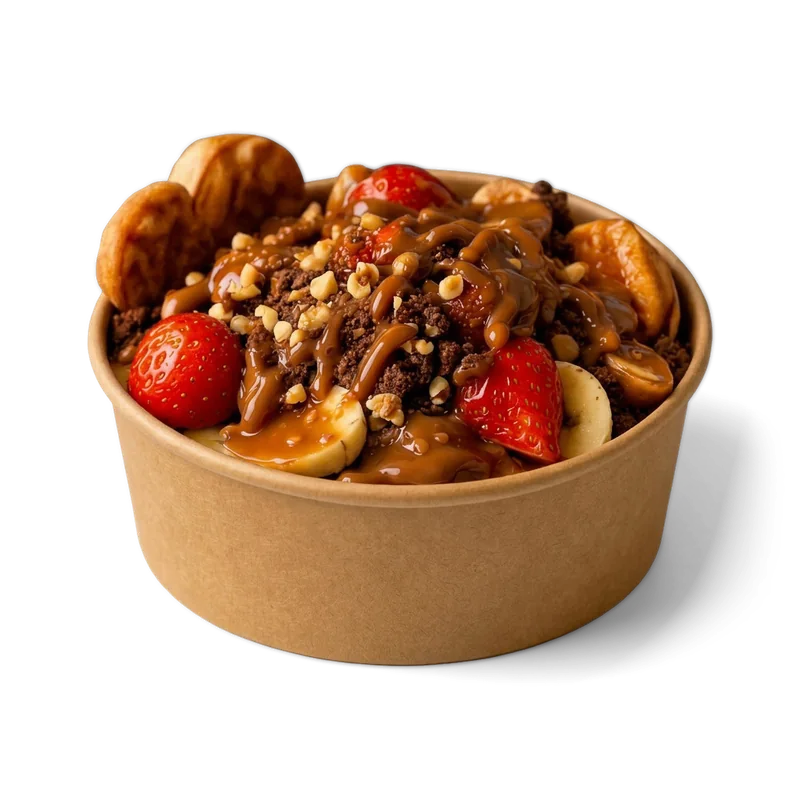
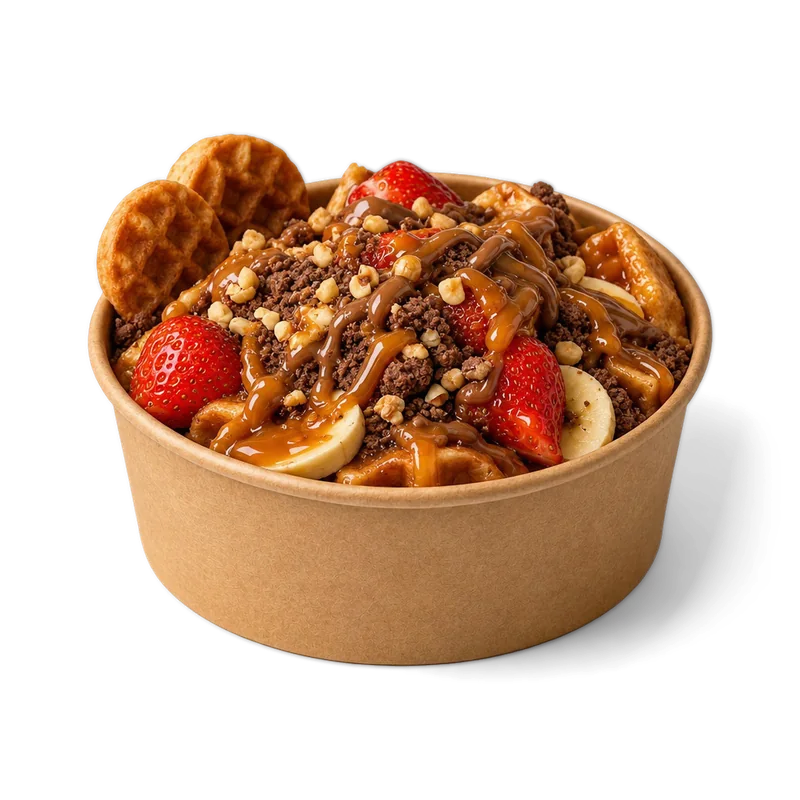
Görselleri GPT Image ile yenile, Bardak'ı tek çeşide indir
- 15 ürün görseli Magnefic üzerinden GPT Image (GPT 2.6, yüksek kalite)
  ile aynı stüdyo kadrajında yeniden üretildi; arka planlar şeffaf,
  doğal gölgeler korundu
- Bardak Waffle tek çeşit: 6 kartlık ızgara yerine tek geniş kart
  (telefonda alt alta, geniş ekranda görsel ve metin yan yana)
- Giriş görseli (Kova, Tabak, Bardak) yeni görsellerle yeniden oluşturuldu

Claude-Session: https://claude.ai/code/session_01EJb2HvBoRAMEMTPSyJUPV6

diff --git a/waffle-champion/index.html b/waffle-champion/index.html
@@ -23,7 +23,7 @@
         <h1 class="hero-title">Waffle Champion</h1>
         <p class="hero-subtitle">Eşsiz lezzet, gerçek şampiyon.</p>
         <p class="pill">Tüm ürünlerde self servis</p>
-        <img class="hero-image" src="resimler/hero.webp" alt="Kova, Tabak ve Bardak Waffle" width="1198" height="846">
+        <img class="hero-image" src="resimler/hero.webp" alt="Kova, Tabak ve Bardak Waffle" width="1196" height="843">
     </header>
 
     <nav class="local-nav" aria-label="Menü bölümleri">
@@ -157,58 +157,21 @@
             </div>
         </section>
 
-        <!-- BARDAK WAFFLE -->
+        <!-- BARDAK WAFFLE (tek çeşit) -->
         <section id="bardak" class="menu-section">
             <div class="section-head">
                 <p class="eyebrow eyebrow-new">Yeni</p>
                 <h2>Bardak Waffle</h2>
-                <p>Dilimlenmiş waffle, bardakta. Hepsi çilekle.</p>
+                <p>Dilimlenmiş çıtır waffle, bardakta.</p>
             </div>
 
-            <div class="product-grid">
-                <article class="product">
-                    <div class="product-media"><img src="resimler/bardak-klasik.webp" alt="Klasik Bardak Waffle" width="800" height="800" loading="lazy"></div>
-                    <div class="product-body">
-                        <h3>Klasik</h3>
-                        <p>Sütlü ve beyaz çikolata, fındık, fıstık.</p>
-                    </div>
-                </article>
-                <article class="product">
-                    <div class="product-media"><img src="resimler/bardak-sutlu-cikolata.webp" alt="Sütlü Çikolatalı Bardak Waffle" width="800" height="800" loading="lazy"></div>
-                    <div class="product-body">
-                        <h3>Sütlü Çikolatalı</h3>
-                        <p>Sütlü çikolata, fındık, fıstık.</p>
-                    </div>
-                </article>
-                <article class="product">
-                    <div class="product-media"><img src="resimler/bardak-karamel.webp" alt="Karamelli Bardak Waffle" width="800" height="800" loading="lazy"></div>
-                    <div class="product-body">
-                        <h3>Karamelli</h3>
-                        <p>Sütlü çikolata, karamel sos, fındık.</p>
-                    </div>
-                </article>
-                <article class="product">
-                    <div class="product-media"><img src="resimler/bardak-bitter.webp" alt="Bitter Çikolatalı Bardak Waffle" width="800" height="800" loading="lazy"></div>
-                    <div class="product-body">
-                        <h3>Bitter Çikolatalı</h3>
-                        <p>Bitter çikolata, fındık.</p>
-                    </div>
-                </article>
-                <article class="product">
-                    <div class="product-media"><img src="resimler/bardak-frambuaz.webp" alt="Frambuazlı Bardak Waffle" width="800" height="800" loading="lazy"></div>
-                    <div class="product-body">
-                        <h3>Frambuazlı</h3>
-                        <p>Sütlü ve frambuaz çikolata, fındık.</p>
-                    </div>
-                </article>
-                <article class="product">
-                    <div class="product-media"><img src="resimler/bardak-antep.webp" alt="Antep Fıstıklı Bardak Waffle" width="800" height="800" loading="lazy"></div>
-                    <div class="product-body">
-                        <h3>Antep Fıstıklı</h3>
-                        <p>Sütlü çikolata, Antep fıstığı sosu, fıstık, fındık.</p>
-                    </div>
-                </article>
-            </div>
+            <article class="product product-feature">
+                <div class="product-media"><img src="resimler/bardak.webp" alt="Bardak Waffle" width="800" height="800" loading="lazy"></div>
+                <div class="product-body">
+                    <h3>Bardak Waffle</h3>
+                    <p>Çilek, sütlü ve beyaz çikolata, fındık, fıstık.</p>
+                </div>
+            </article>
         </section>
 
         <!-- İÇECEKLER -->

diff --git a/waffle-champion/style.css b/waffle-champion/style.css
@@ -269,6 +269,31 @@ main {
     color: var(--text-2);
 }
 
+/* Tek ürünlü bölüm (Bardak): geniş tek kart */
+.product-feature {
+    max-width: 820px;
+    margin: 0 auto;
+}
+
+.product-feature .product-media {
+    width: 100%;
+    max-width: 420px;
+    margin: 0 auto;
+}
+
+.product-feature .product-body {
+    padding: 0 24px 28px;
+}
+
+.product-feature .product-body h3 {
+    font-size: 24px;
+}
+
+.product-feature .product-body p {
+    font-size: 17px;
+    margin-top: 6px;
+}
+
 /* ================== İÇECEKLER ================== */
 .drinks {
     list-style: none;
@@ -376,6 +401,27 @@ main {
 
     .product-body p {
         font-size: 15px;
+    }
+}
+
+@media (min-width: 734px) {
+    .product-feature {
+        display: grid;
+        grid-template-columns: 1fr 1fr;
+        align-items: center;
+    }
+
+    .product-feature .product-body {
+        padding: 32px 48px 32px 8px;
+        text-align: left;
+    }
+
+    .product-feature .product-body h3 {
+        font-size: 32px;
+    }
+
+    .product-feature .product-body p {
+        font-size: 19px;
     }
 }
 
